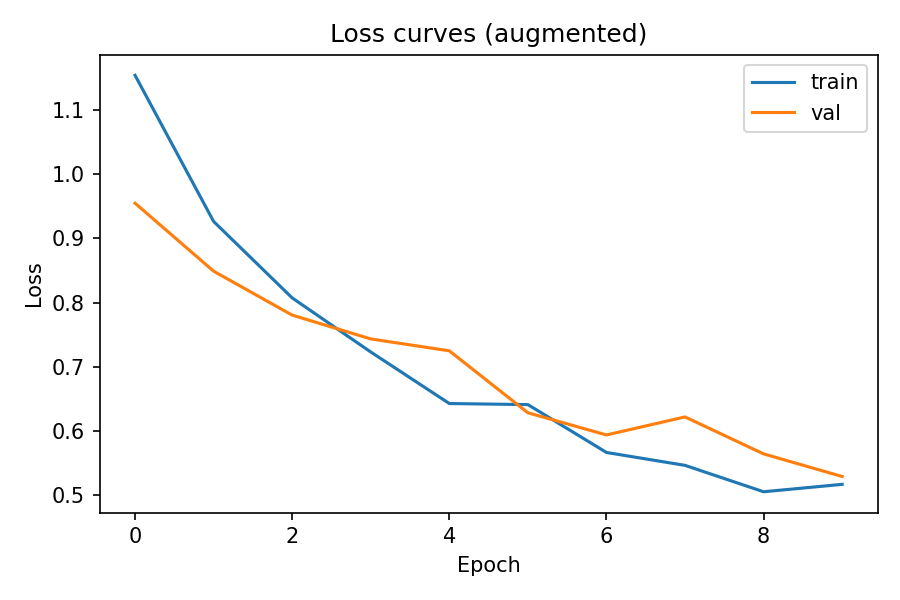
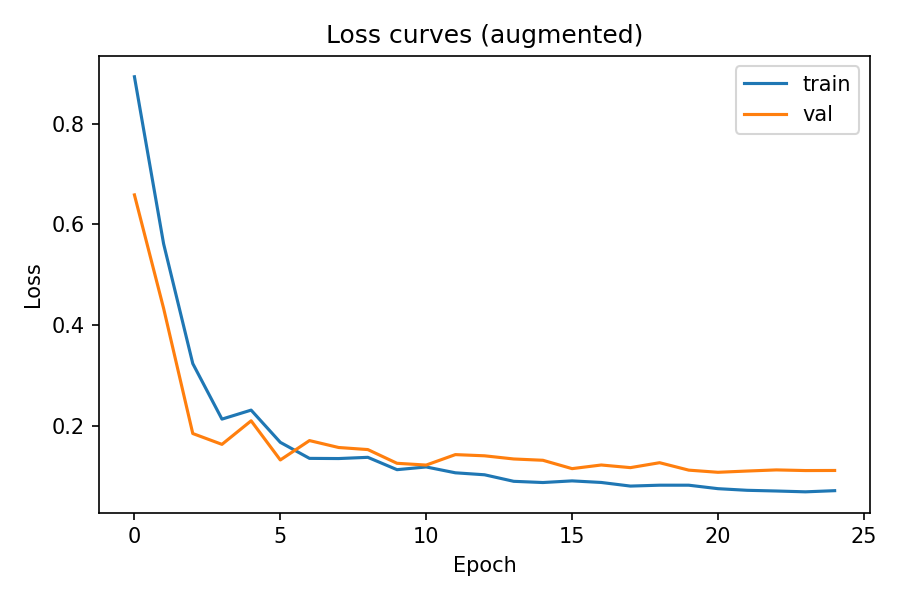
training result

diff --git a/train_cell.py b/train_cell.py
@@ -7,7 +7,7 @@ from pathlib import Path
 import matplotlib.pyplot as plt
 import numpy as np
 import torch
-from sklearn.metrics import accuracy_score, f1_score
+from sklearn.metrics import accuracy_score, classification_report, confusion_matrix, f1_score
 from sklearn.model_selection import StratifiedShuffleSplit
 from torch import nn
 from torch.utils.data import DataLoader, Subset
@@ -302,6 +302,18 @@ def run_experiment(
         f"[{name}] Test loss: {test_loss:.4f} | "
         f"accuracy: {accuracy:.4f} | macro F1: {macro_f1:.4f}"
     )
+
+    report = classification_report(
+        y_true,
+        y_pred,
+        target_names=class_names,
+        digits=4,
+        zero_division=0,
+    )
+    print(f"\n[{name}] Classification report:\n{report}")
+
+    cm = confusion_matrix(y_true, y_pred)
+    print(f"[{name}] Confusion matrix:\n{cm}\n")
 
     return {
         "test_loss": test_loss,
